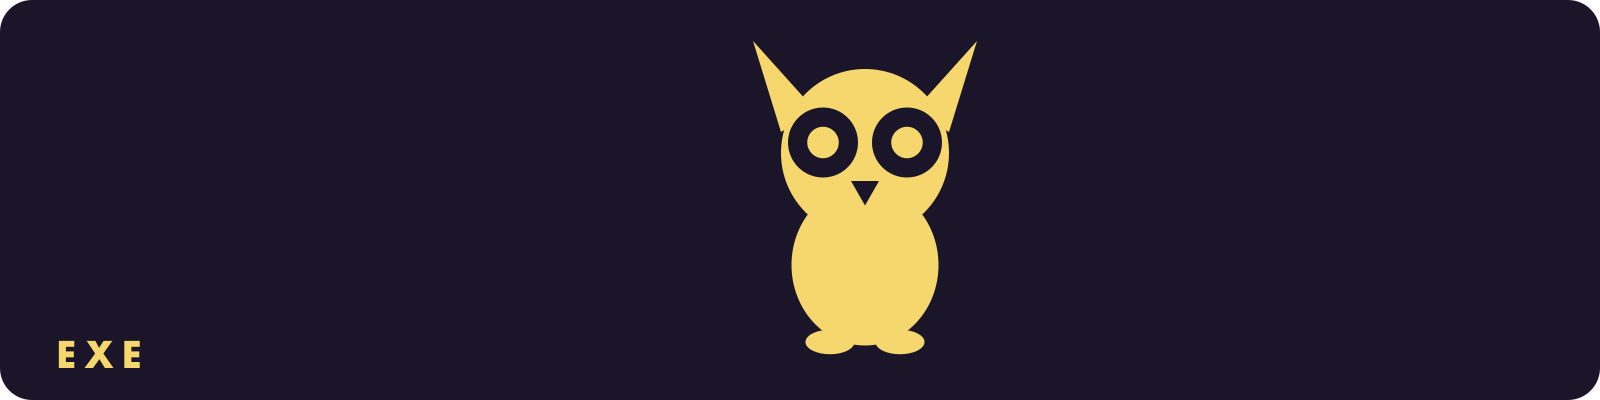
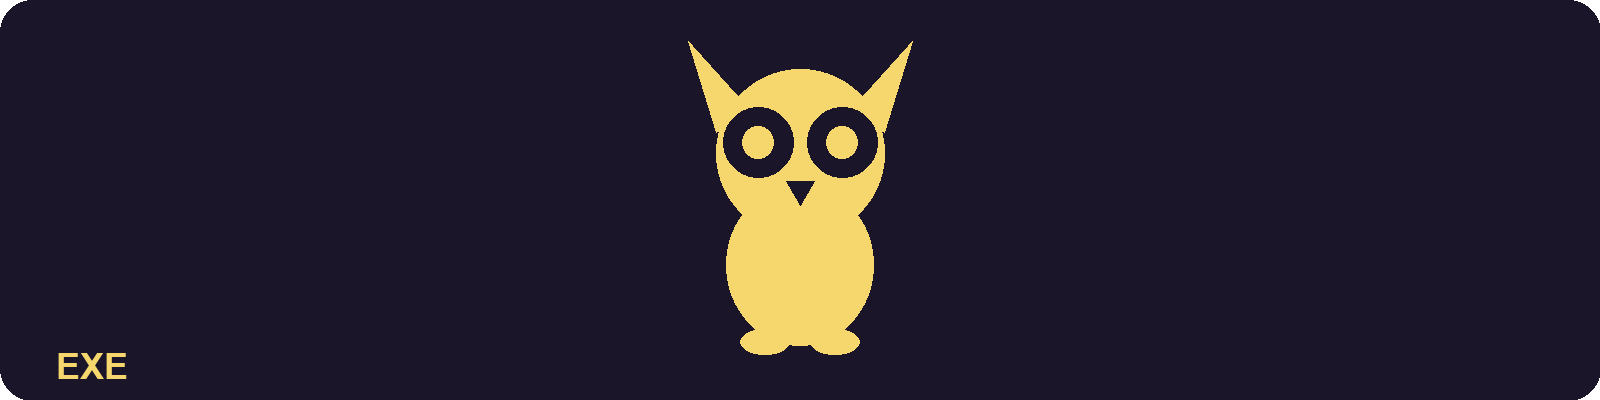
Update README branding and screenshots

Changed region(s): [[0.4375, 0.12, 0.625, 0.9], [0.0312, 0.84, 0.0938, 0.96], [0.4062, 0.12, 0.4375, 0.15]]

diff --git a/README.md b/README.md
@@ -1,22 +1,22 @@
 <p align="center">
-  <img src="https://cdn.jsdelivr.net/gh/AskExe/exe-watcher@main/assets/owl-header.png" alt="WATCHER" width="520" />
+  <img src="https://cdn.jsdelivr.net/gh/AskExe/exe-watcher@main/assets/owl-header.png" alt="Exe Watcher banner" width="520" />
 </p>
 
-<p align="center"><strong>Real-time AI spend tracker for developers — by <a href="https://github.com/AskExe">Exe AI</a>.</strong></p>
+<p align="center"><strong>The owl watching your AI coding spend — tokens, cost, models, agents, and projects in one beautiful terminal + macOS menu bar.</strong></p>
 
 <p align="center">
   <a href="https://www.npmjs.com/package/exe-watcher"><img src="https://img.shields.io/npm/v/exe-watcher.svg" alt="npm version" /></a>
   <a href="https://www.npmjs.com/package/exe-watcher"><img src="https://img.shields.io/npm/dt/exe-watcher.svg" alt="total downloads" /></a>
   <a href="https://github.com/AskExe/exe-watcher/blob/main/LICENSE"><img src="https://img.shields.io/npm/l/exe-watcher.svg" alt="license" /></a>
-  <a href="https://github.com/AskExe/exe-watcher"><img src="https://img.shields.io/badge/node-%3E%3D22-brightgreen.svg" alt="node version" /></a>
+  <a href="https://github.com/AskExe/exe-watcher"><img src="https://img.shields.io/badge/node-%3E%3D22.5-brightgreen.svg" alt="node version" /></a>
   <a href="https://discord.gg/pJ2DMWvtAx"><img src="https://img.shields.io/badge/discord-join-5865F2?logo=discord&logoColor=white" alt="Discord" /></a>
 </p>
 
 <p align="center">
-  <img src="https://raw.githubusercontent.com/AskExe/exe-watcher/main/assets/dashboard.jpg" alt="Watcher TUI dashboard" width="620" />
+  <img src="https://raw.githubusercontent.com/AskExe/exe-watcher/main/assets/menubar-screenshot.png" alt="Exe Watcher macOS menu bar spend dashboard" width="401" />
 </p>
 
-8 providers. 5 time periods. 17 currencies. Every dollar your AI coding tools spend, tracked automatically from local session data. No API keys, no cloud, no wrappers.
+Exe Watcher turns your local AI coding sessions into a live spend cockpit: today's burn, provider/model mix, activity breakdown, one-shot rate, token trends, optimization hints, and project cost — without API keys, cloud sync, or wrappers around your tools.
 
 ```bash
 npm install -g exe-watcher
@@ -24,9 +24,20 @@ npm install -g exe-watcher
 
 ---
 
+## What makes it cool
+
+- **Local-first spend tracking** — reads session data already on your machine; no telemetry service, no account, no proxy.
+- **Terminal + native macOS menu bar** — run the full TUI in your terminal or keep today's spend visible in the menu bar.
+- **Multi-provider view** — Claude Code, Codex, Cursor, Cursor Agent, Copilot, OpenCode, OMP, and Pi are auto-detected.
+- **Actually useful metrics** — cost, calls, sessions, tokens, cache hit %, one-shot rate, activity type, model split, tools, MCP servers, shell commands, and top sessions.
+- **Optimization built in** — finds token waste and gives copy-paste fixes for bloated prompts, repeated file reads, uncapped shell output, unused MCP servers, and ghost agents.
+- **Exe OS aware** — when Exe OS is present, Watcher adds AI employee memory growth and per-agent spend.
+
+---
+
 ## Features
 
-### Native macOS menubar app
+### Native macOS menu bar app
 
 ```bash
 exe-watcher menubar            # install + launch
@@ -35,18 +46,18 @@ exe-watcher menubar --force    # reinstall latest
 
 A Swift/SwiftUI popover that lives in your menu bar. Today's spend is always visible at a glance.
 
-- **Period switcher** — Today, 7 Days, 30 Days, Month, All Time. Each period shows comparison to prior period (e.g. "+12% vs last 7d").
-- **Provider tabs** — Switch between All, Claude, Codex, Cursor, etc. Only providers with actual spend appear. Cache prefetching makes tab switching instant.
-- **Project spend** — Per-project cost breakdown across 24h / 7d / 30d.
-- **Daily history heatmap** — 365 days of spend history, GitHub-contribution-style.
-- **Subscription tracking** — Claude Pro ($20/mo), Claude Max ($200/mo), Cursor Pro ($20/mo) — see how much of your quota you've used.
-- **Capacity estimation** — Derives your token limits from usage patterns when hard caps aren't published.
-- **Cache hit %** — Track prompt caching efficiency across providers.
-- **One-shot rate** — What percentage of edits land on the first try vs. retry loops.
-- **Token optimization** — Surfaces waste patterns with estimated savings.
-- **Multi-currency** — 17 currencies (USD, GBP, EUR, JPY, AUD, CAD, CHF, CNY, SEK, NOK, DKK, NZD, SGD, HKD, KRW, INR, BRL). ECB exchange rates, cached 24h.
+- **Period switcher** — Today, 7 Days, 30 Days, Month, All Time. Each period includes comparison to the previous window where available.
+- **Provider tabs** — Switch between All, Claude, Codex, Cursor, and any other detected provider with spend.
+- **Insight tabs** — Trend, Forecast, Pulse, and Stats summarize token/cost movement, projections, optimization wins, and usage streaks.
+- **Activity breakdown** — Research, Building, Debugging, DevOps, Testing, and Planning with cost, turns, and one-shot rate.
+- **Model breakdown** — See which models are driving spend and call volume.
+- **Project spend** — Per-project cost across today / 7d / 30d.
+- **Optimization findings** — Menubar links open the full optimizer or report directly in Terminal.
+- **Subscription tracking** — Claude Pro ($20/mo), Claude Max ($200/mo), Cursor Pro ($20/mo), or custom monthly budgets.
+- **Capacity estimation** — Derives likely token limits from usage patterns when hard caps aren't published.
+- **Multi-currency** — USD, GBP, EUR, JPY, AUD, CAD, CHF, CNY, SEK, NOK, DKK, NZD, SGD, HKD, KRW, INR, BRL.
 
-Silent background refresh every 30 seconds. Launches at login via macOS Login Items. No loading spinners — all periods are pre-fetched on launch.
+Silent background refresh runs every 30 seconds. Period/provider data is cached and prefetched so tab switching feels instant.
 
 ### Interactive TUI dashboard
 
@@ -198,7 +209,7 @@ Two components, loosely coupled via CLI output:
 │                                  │      │                                 │
 │  Reads provider session files    │ JSON │  Calls CLI with --format        │
 │  Computes cost via LiteLLM rates ├─────►│  menubar-json                   │
-│  Daily cache (v5, atomic writes) │      │  @Observable state management   │
+│  Daily cache (v6, atomic writes) │      │  @Observable state management   │
 │  365-day historical backfill     │      │  30s cache TTL, prefetch on     │
 │  Lock serialization for safety   │      │  launch, concurrent fetch       │
 │                                  │      │  guards                         │
@@ -207,7 +218,7 @@ Two components, loosely coupled via CLI output:
 
 **CLI pipeline:** Parse provider session files from disk → deduplicate by message ID → compute cost per token type (input, output, cache write, cache read, web search) → aggregate by period, project, model, activity → output as TUI, JSON, or CSV.
 
-**Menubar app:** Calls `exe-watcher status --format menubar-json --period <period> --provider <provider>` → decodes JSON → renders SwiftUI popover. All 5 periods are pre-fetched on launch for instant tab switching. Security: no shell injection — validated argv array passed directly, no `/bin/zsh -c`.
+**Menubar app:** Calls `exe-watcher status --format menubar-json --period <period> --provider <provider>` → decodes JSON → renders SwiftUI popover. All 5 periods are pre-fetched on launch for instant tab switching. Security: no shell injection — validated argv arrays are passed directly to child processes, not through a shell.
 
 **Deduplication** per provider: API message ID (Claude), cumulative token cross-check (Codex), conversation/timestamp (Cursor), session+message ID (OpenCode), responseId (Pi/OMP).
 
@@ -215,13 +226,13 @@ Two components, loosely coupled via CLI output:
 
 ## Test suite
 
-637 tests across 3 layers:
+638 tests across 3 layers:
 
 | Layer | Framework | Count | What it covers |
 |-------|-----------|-------|----------------|
-| **CLI data integrity** | Vitest | 594 | Schema validation, provider sum consistency, period monotonicity, project spend accuracy, 365-day history, token sanity checks |
-| **Swift state** | XCTest | 37 | Period windowing, cache isolation, prefetch logic, capacity estimation, CLI resolution, provider sum validation, JSON decode |
-| **UI smoke** | XCTest + Accessibility | 6 | App launch, status item presence, popover display, period switching via macOS Accessibility APIs |
+| **CLI data integrity** | Vitest | 595 | Schema validation, provider sum consistency, period monotonicity, project spend accuracy, 365-day history, token sanity checks |
+| **Swift state** | Swift Testing | 37 | Period windowing, cache isolation, prefetch logic, capacity estimation, CLI resolution, provider sum validation, JSON decode |
+| **UI smoke** | Swift Testing + Accessibility | 6 | App launch, status item presence, popover display, period switching via macOS Accessibility APIs |
 
 ```bash
 # Run CLI tests
@@ -312,10 +323,10 @@ Watcher is forked from [codeburn](https://github.com/getagentseal/codeburn) by [
 - 8 provider support (added Cursor Agent, Copilot, OMP, Pi, OpenCode)
 - Native macOS menubar app with multi-period views, provider tabs, project spend, and subscription tracking
 - Exe OS integration — per-agent spend and memory tracking for AI employee teams
-- Daily cache system (v5) with atomic writes and cold-start 365-day backfill
+- Daily cache system (v6) with atomic writes and cold-start/progressive 365-day backfill
 - Capacity estimation from usage patterns
 - Multi-currency support (17 currencies)
-- 637-test suite across CLI, Swift state, and UI smoke layers
+- 638-test suite across CLI, Swift state, and UI smoke layers
 - Consolidated activity categories from 13 to 6
 - Fixed double-counting bugs in the menubar JSON pipeline
 - Performance: 7-day and 30-day queries from 2-5s down to ~1s via daily cache